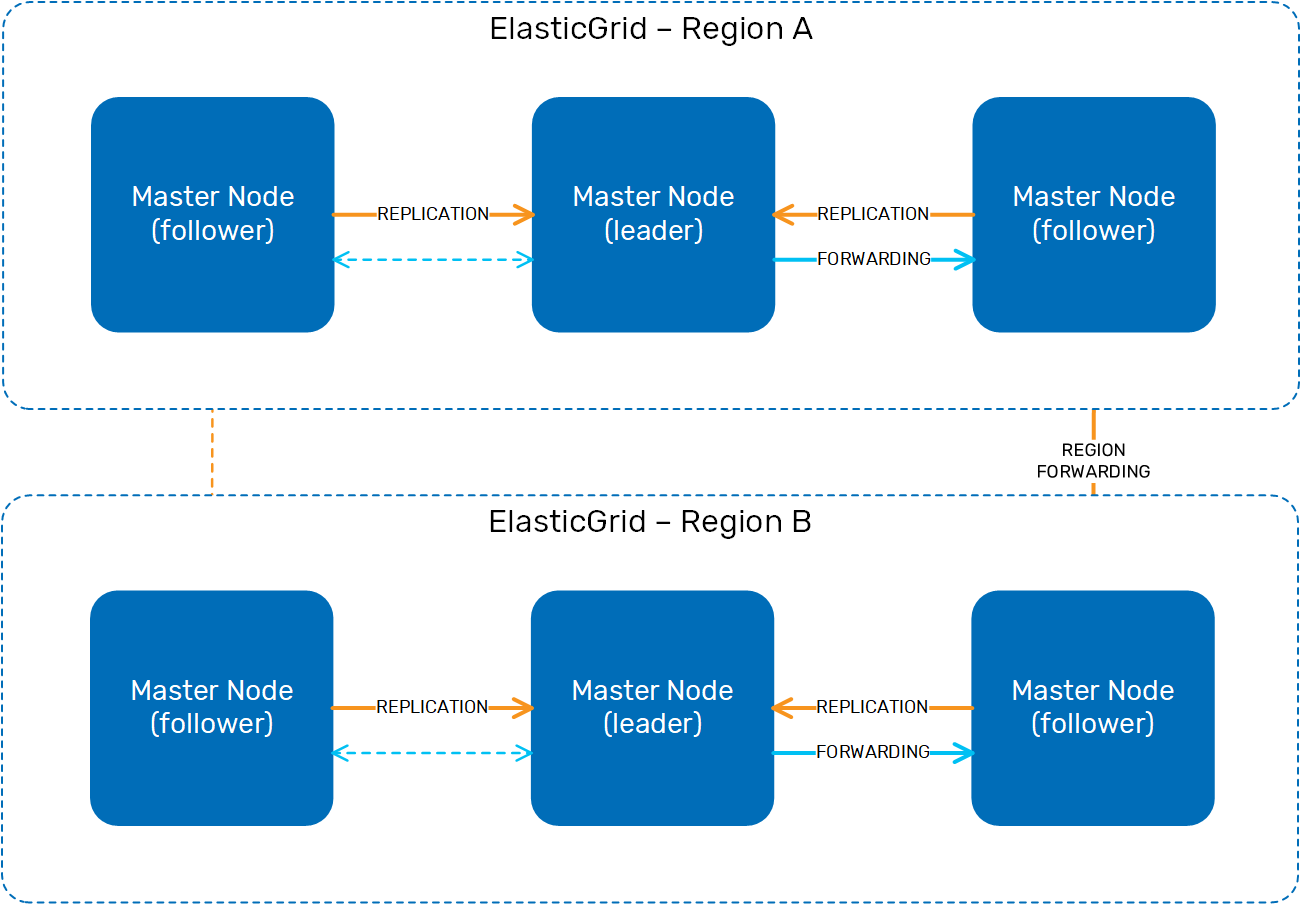
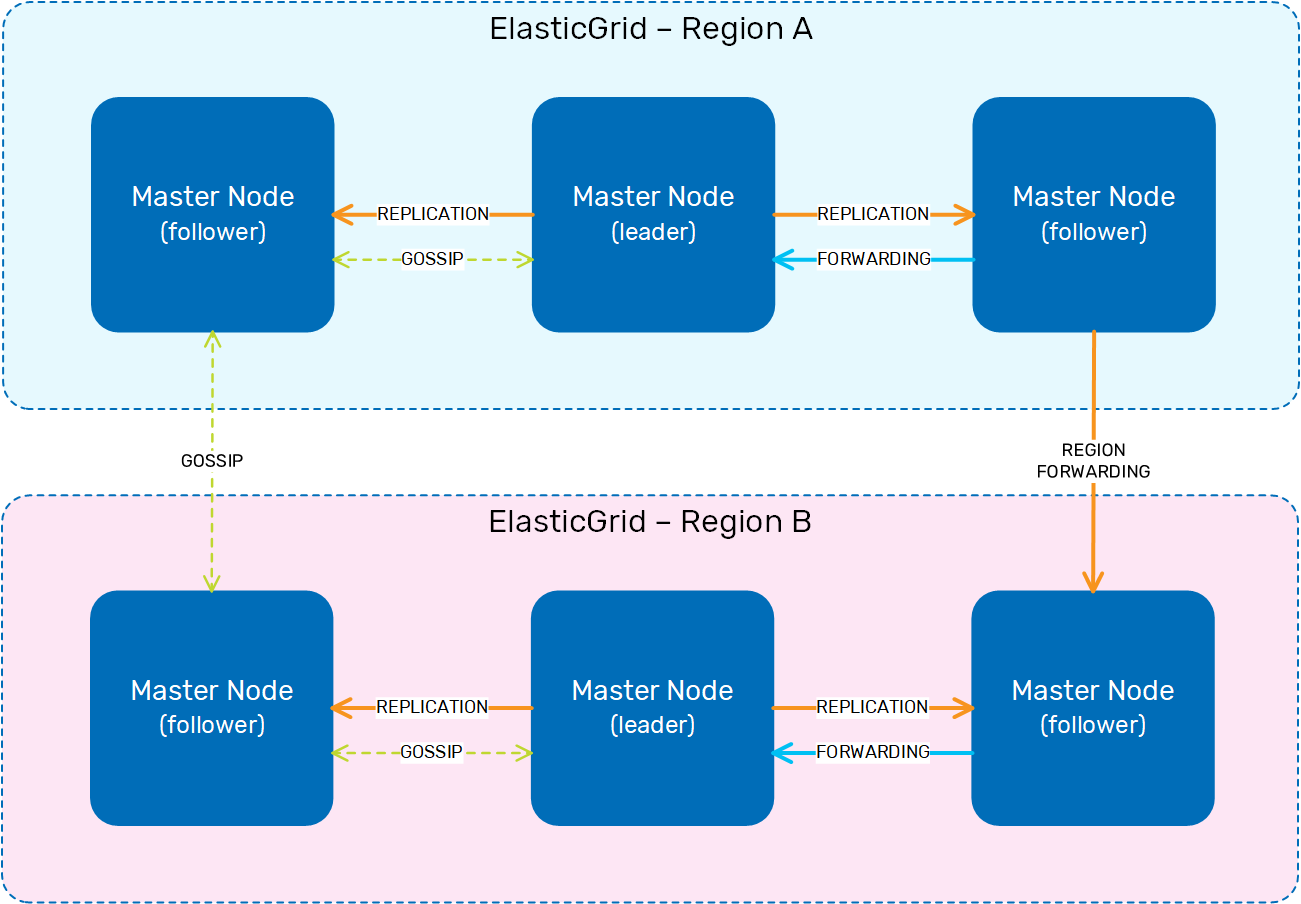
DOC-766 finished implementing feedback, updated diagrams

diff --git a/site-flare/Content/orchestration/gigaops-stack-overview.html b/site-flare/Content/orchestration/gigaops-stack-overview.html
@@ -7,6 +7,11 @@
         <p>Being data-driven is extremely crucial for any organization looking to enable continuous innovation, to avoid falling behind and to lower TCO. Much like DevOps in the enterprise, the emergence of enterprise DataOps mimics the practices of modern data management at large internet companies over the past 10 years.</p>
         <p>DataOps is about automatically managing all your data life cycle in a modern data management approach. It’s about how to provision the resource for your data, scale the database, tune the data for performance, and automate the data management or data team between different platforms or different stores.</p>
         <p>The GigaOps Stack reduces the complexity of all aspects required to implement <MadCap:variable name="General.ProductNameXAP" /> products via a self-service cluster with end-to-end provisioning, ability to deploy new services, auto-recovery, self-monitoring, and tracing.</p>
+        <div class="tc-align-center">
+            <p>
+                <img src="../Resources/Static/attachment_files/gigaops-stack/gigaops-stack.png" class="tc-picture30" />
+            </p>
+        </div>
         <h1>Stack Components</h1>
         <p>The GigaOps Stack is comprised of the following:</p>
         <ul>
@@ -16,16 +21,15 @@
             <li><span class="tc-bold">ElasticGrid</span> or <span class="tc-bold">Kubernetes</span> enterprise-grade orchestration that automates deploying, scaling, and managing applications and services.</li>
         </ul>
         <p>The GigaOps Stack utilizes the DataOps approach, which takes DevOps best practices and applies them to managing data as a global asset in your organization. Using the GigaOps Stack provides auto-installation and provisioning of servers, networking, and security using gsctl, along with full orchestration and installing the <MadCap:variable name="General.ProductNameXAP" /> platform.</p>
-        <div class="tc-align-center">
-            <p>
-                <img src="../Resources/Static/attachment_files/gigaops-stack/gigaops-stack.png" class="tc-picture30" />
-            </p>
-        </div>
         <h4>Auto-Provisioning</h4>
         <p>With the GigaOps Stack, the installation and configuration process is completely automated. This saves time and resources, and prevents errors that might otherwise occur due to manual configuration of the environment.</p>
         <h4>Elastic Orchestration</h4>
         <p>The GigaOps Stack manages orchestration, scheduling, service life cycle, and resource prioritization across the environment. The stack makes global decisions about scheduling, and can detect and respond to cluster events. For example, identifying healthy and unhealthy nodes so that it can make decisions about where to place pods.</p>
-        <p>&#160;</p>
+        <div class="tc-align-center">
+            <p>
+                <img src="../Resources/Static/attachment_files/gigaops-stack/elasticgrid-arch.png" class="tc-picture50" />
+            </p>
+        </div>
         <h4>Canary Deployment</h4>
         <p>The GigaOps Stack supports canary deployment, so you can apply <MadCap:variable name="General.ProductNameXAP" /> upgrades or custom application upgrades to a small subset of users before introducing the change on a widespread scale. </p>
         <div class="tc-align-center">

diff --git a/site-flare/Content/orchestration/elastigrid-overview.html b/site-flare/Content/orchestration/elastigrid-overview.html
@@ -40,7 +40,7 @@
         </div>
         <p>In this topology, one master is the leader, and any other masters are followers. The master nodes accept jobs, manage the worker nodes, and allocate tasks among them. The leader replicates data to the followers, and the followers forward updates to the leader. The worker nodes are data centers, and there may be more than one data center registered with a master node.</p>
         <h2>Multi-Region Topology</h2>
-        <p>ElasticGrid supports multi-region connectivity so you can replicate data between regions and cloud-based clusters. This is how the master nodes connect to each other in a multi-region topology.</p>
+        <p>ElasticGrid supports multi-region connectivity so you can federate multiple regions together into a single cluster. This is how the master nodes connect to each other in a multi-region topology.</p>
         <div class="tc-align-center">
             <p>
                 <img src="../Resources/Static/attachment_files/gigaops-stack/multi-region.png" class="tc-picture50" />
@@ -48,7 +48,7 @@
         </div>
         <p>In this topology, the regions function independently from each other, and have a loose coupling that enables submitting jobs or queries between the regions. The master node serving as the leader processes all the queries and transactions. While all the master nodes in a region make their scheduling decisions in parallel (ElasticGrid is optimistically concurrent), the leader coordinates all the activity to ensure the correct load balancing across the worker nodes.</p>
         <h1>Deploying <MadCap:variable name="General.ProductNameXAP" /> on ElastiGrid</h1>
-        <p>The gsctl utility is used to create the ElastiGrid cluster and deploy <MadCap:variable name="General.ProductNameXAP" />, much like using Helm to install <MadCap:variable name="General.ProductNameXAP" /> on Kubernetes. For information on how to deploy <MadCap:variable name="General.ProductNameXAP" /> on ElastiGrid, see <MadCap:xref href="gsctl-create-gs-cluster-cloud.html">Creating a [%=General.ProductNameXAP%] Cluster in the Cloud</MadCap:xref>.</p>
+        <p>The gsctl utility is used to create the ElastiGrid cluster and deploy <MadCap:variable name="General.ProductNameXAP" />, much like using Helm to install <MadCap:variable name="General.ProductNameXAP" />, and deploy services and Spark jobs, on Kubernetes. For information on how to deploy <MadCap:variable name="General.ProductNameXAP" /> on ElastiGrid, see <MadCap:xref href="gsctl-create-gs-cluster-cloud.html">Creating a [%=General.ProductNameXAP%] Cluster in the Cloud</MadCap:xref>.</p>
         <p>&#160;</p>
         <p>&#160;</p>
         <p>&#160;</p>
